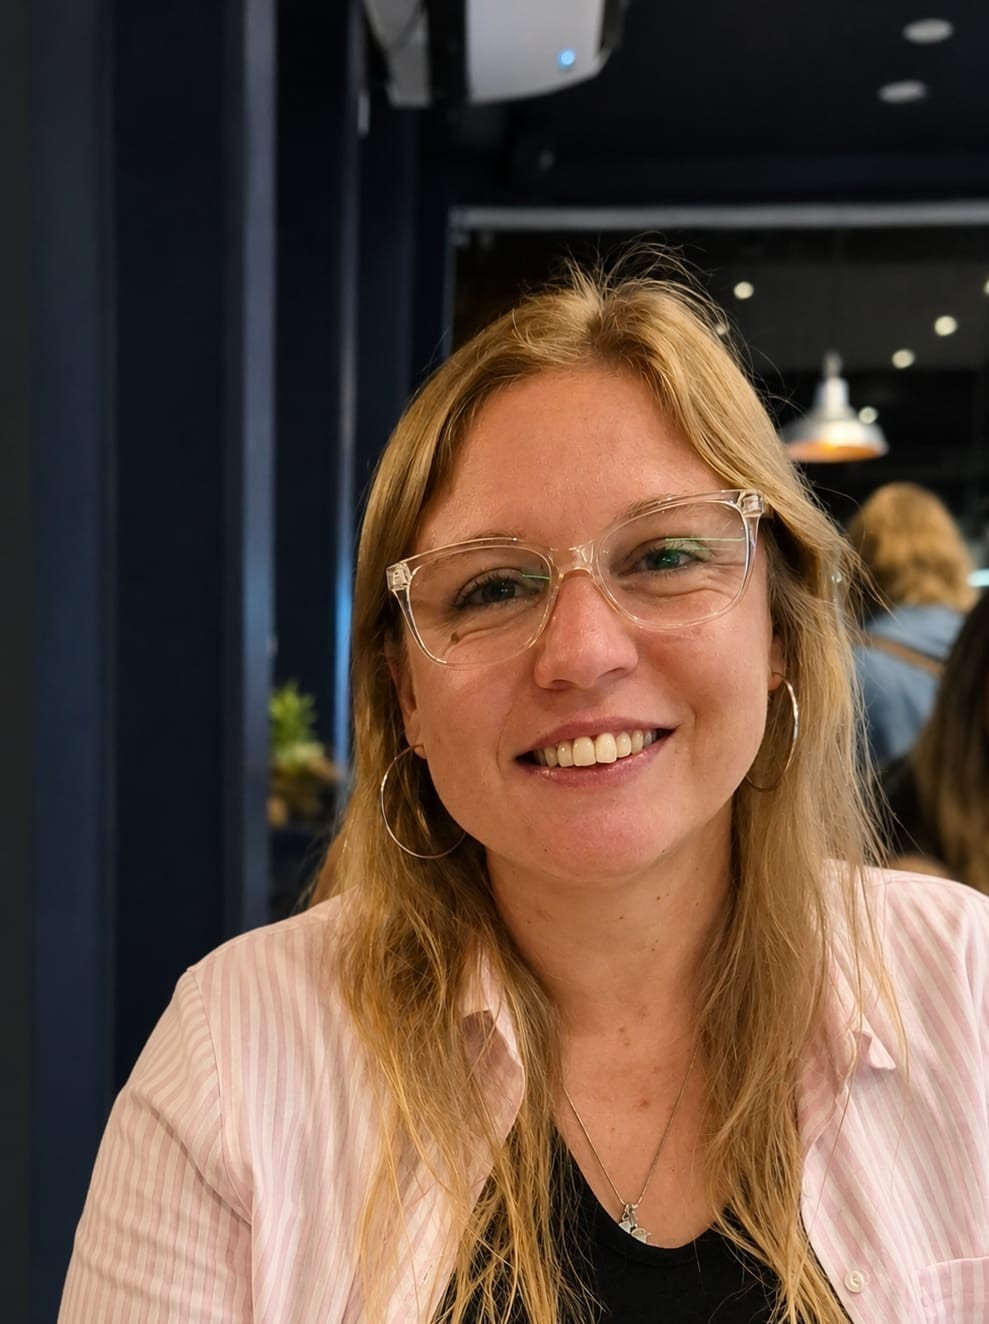
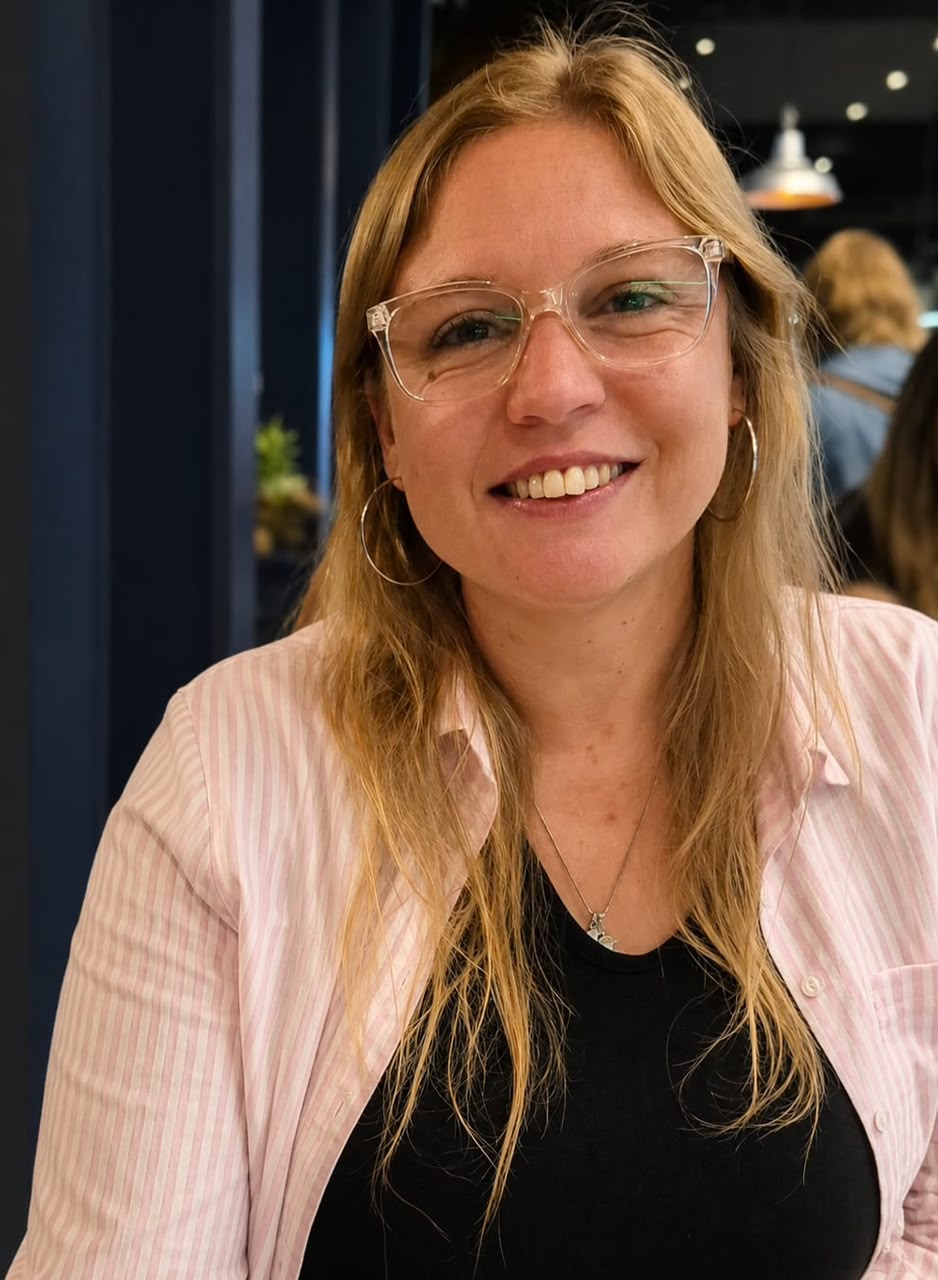
style changes

diff --git a/src/data/siteData.ts b/src/data/siteData.ts
@@ -21,7 +21,7 @@ export const siteData = {
       latitude: "-34.7067388",
       longitude: "-58.2850108"
     },
-    embedMapUrl: "https://www.google.com/maps/embed?pb=!1m18!1m12!1m3!1d3278.361491768403!2d-58.2875857!3d-34.7067388!2m3!1f0!2f0!3f0!3m2!1i1024!2i768!4f13.1!3m3!1m2!1s0x95a33200debf62fb%3A0xce566cc36da33be3!2sConstituci%C3%B3n%2025%2C%20B1876AKF%20Bernal%2C%20Provincia%20de%20Buenos%20Aires!5e0!3m2!1ses!2sar!4v1700000000000!5m2!1ses!2sar"
+    embedMapUrl: "https://www.google.com/maps/embed?pb=!1m18!1m12!1m3!1d3527.641860085459!2d-58.285010799999995!3d-34.706738800000004!2m3!1f0!2f0!3f0!3m2!1i1024!2i768!4f13.1!3m3!1m2!1s0x95a333d2d8f1d3c7%3A0xe0e959e5997d7c3b!2sEspacio%20Octubre!5e1!3m2!1ses-419!2sar!4v1786642493235!5m2!1ses-419!2sar"
   },
 
   contact: {
@@ -29,7 +29,8 @@ export const siteData = {
     phoneDisplay: "+54 9 11 3198-2012",
     whatsappUrl: "https://wa.me/5491131982012?text=Hola!%20Quisiera%20consultar%20por%20un%20turno%20de%20psicología%20en%20Espacio%20Octubre.",
     email: "contacto@consultoriooctubre.com",
-    hours: "Lun a Vie: 08:00 - 20:00 hs / Sab: 9:00 - 18:00 hs",
+    hours: "Lun a Vie: 8 a 20 hs",
+    hourswe: "Sab: 9 a 18 hs",
     modality: "Atención presencial y virtual"
   },
 

diff --git a/src/data/teamData.ts b/src/data/teamData.ts
@@ -14,7 +14,7 @@ export const teamData: TeamMember[] = [
     id: "pro-1",
     name: "Marina Cruz",
     role: "Lic. en Psicología",
-    schedule: "Lunes y Miércoles: 14:00 a 19:00 hs",
+    schedule: "Lun y Mié: 14 a 19 hs",
     image: "/assets/marina-cruz.jpeg",
     badge: "Presencial & Virtual",
     topics: [
@@ -27,7 +27,7 @@ export const teamData: TeamMember[] = [
     id: "pro-3",
     name: "Natalia Machetti",
     role: "Lic. en Psicología",
-    schedule: "Viernes: 08:00 a 16:00 hs",
+    schedule: "Vie: 8 a 16 hs",
     image: "/assets/natalia-machetti.jpeg",
     badge: "Presencial & Virtual",
     topics: [

diff --git a/src/data/servicesData.ts b/src/data/servicesData.ts
@@ -19,5 +19,4 @@ export const servicesData: ServiceItem[] = [
     ],
     borderColorClass: "border-t-primary"
   },
-
 ];
